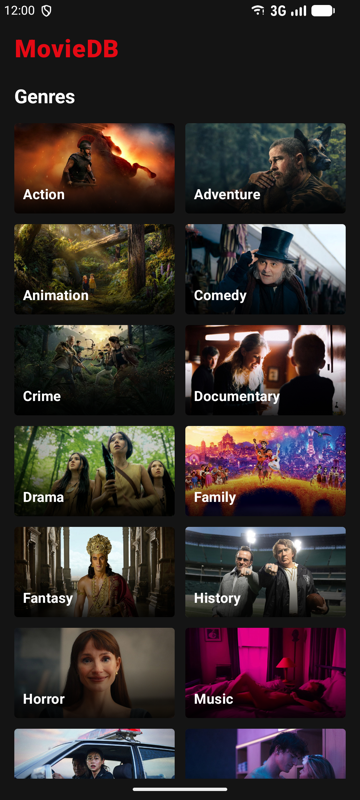
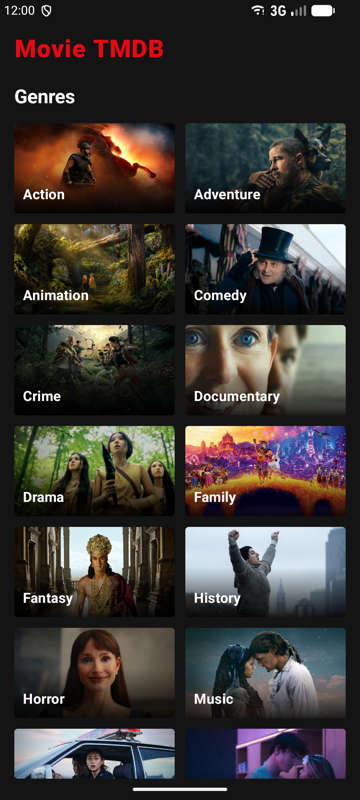
chore: rename app and project to Movie TMDB

diff --git a/app/src/androidTest/java/com/thasa/moviedb/GenreFlowTest.kt b/app/src/androidTest/java/com/thasa/moviedb/GenreFlowTest.kt
@@ -34,7 +34,7 @@ class GenreFlowTest {
         compose.onNodeWithText("Retry").performClick()
         compose.waitUntil(5_000) { compose.onAllNodesWithText("Action").fetchSemanticsNodes().isNotEmpty() }
 
-        compose.onNodeWithText("MovieDB").assertIsDisplayed()
+        compose.onNodeWithText("Movie TMDB").assertIsDisplayed()
         compose.onNodeWithText("Genres").assertIsDisplayed()
     }
 }

diff --git a/feature/genres/src/main/java/com/thasa/moviedb/feature/genres/GenreScreen.kt b/feature/genres/src/main/java/com/thasa/moviedb/feature/genres/GenreScreen.kt
@@ -53,7 +53,7 @@ fun GenreScreen(
             TopAppBar(
                 title = {
                     Text(
-                        text = "MovieDB",
+                        text = "Movie TMDB",
                         color = MovieDbColors.Red,
                         fontWeight = FontWeight.Black,
                         letterSpacing = 1.sp,

diff --git a/README.md b/README.md
@@ -1,4 +1,4 @@
-# MovieDB
+# Movie TMDB
 
 Native Android app that browses movies from the [TMDB API](https://developer.themoviedb.org), with a dark, Netflix-inspired look.
 
